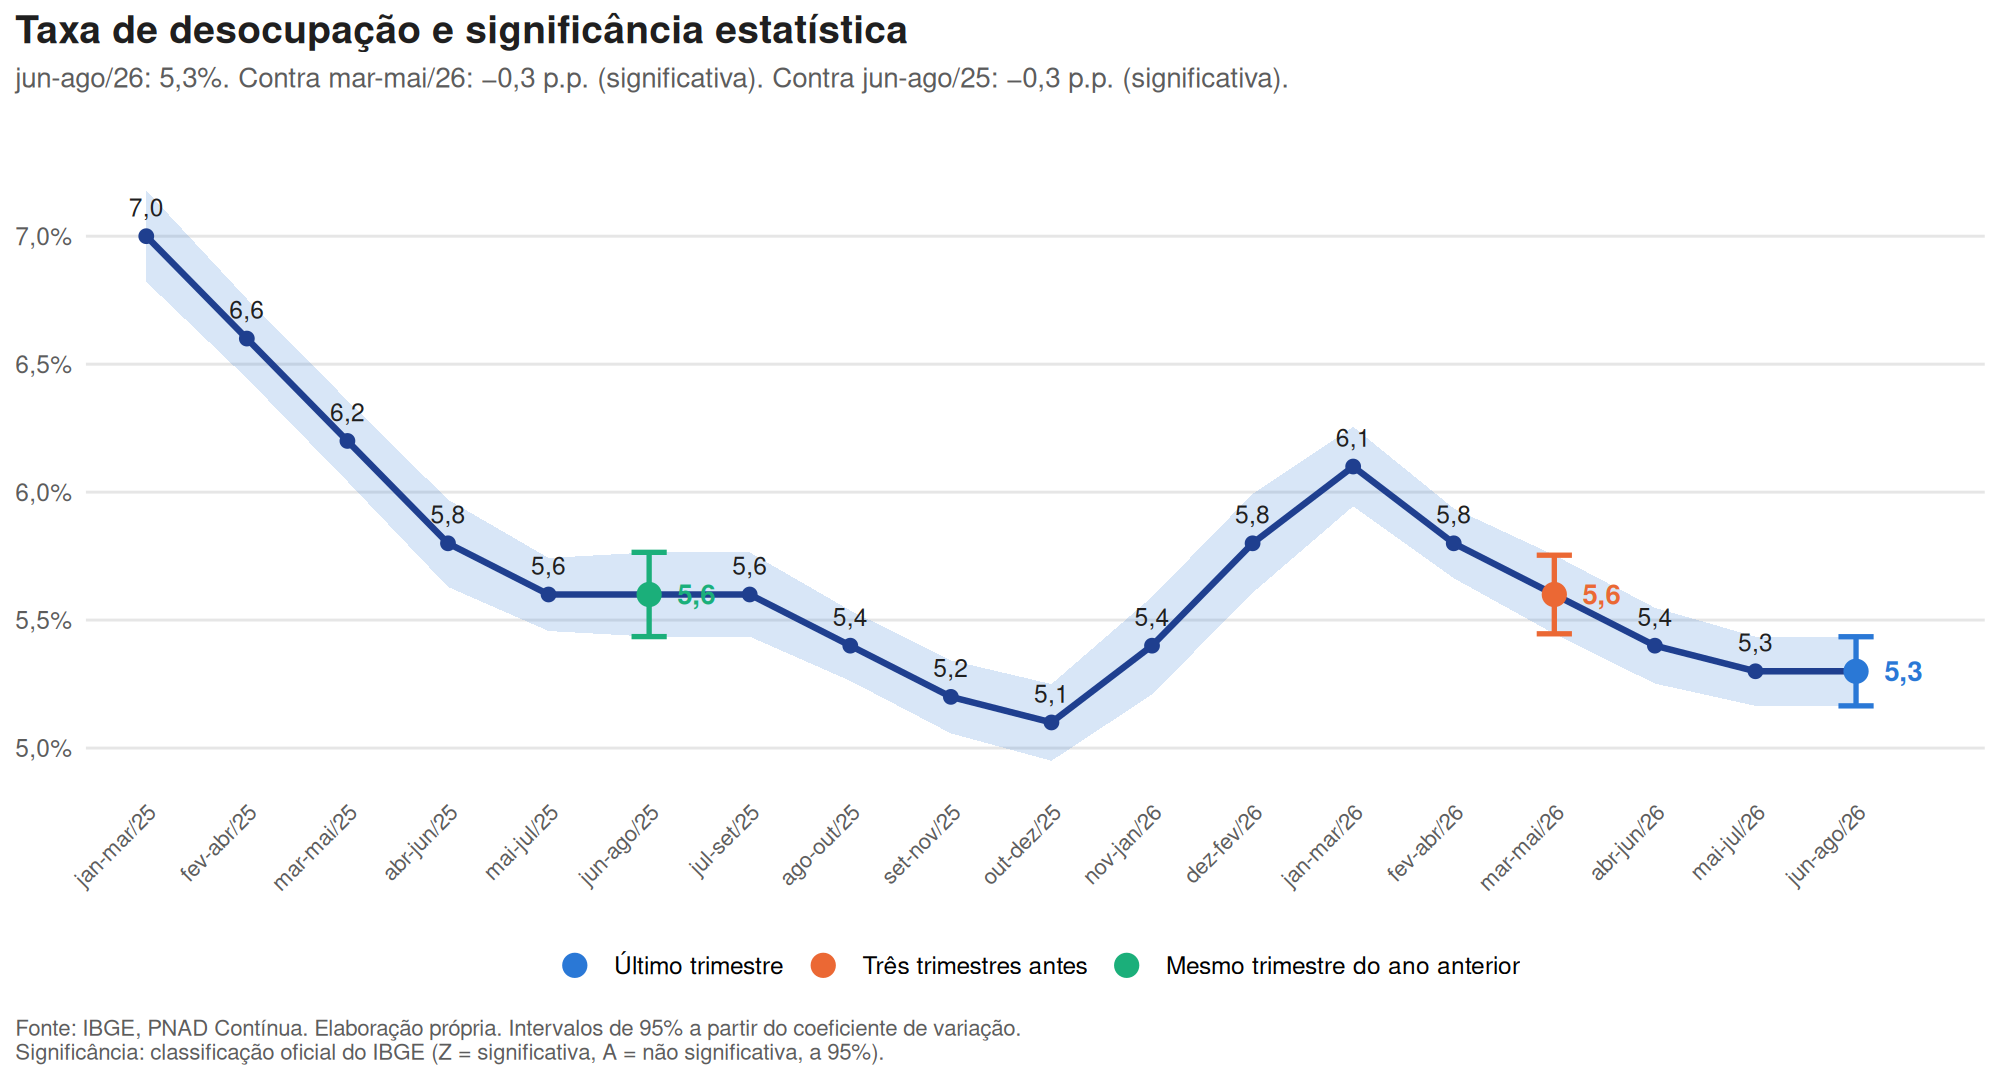
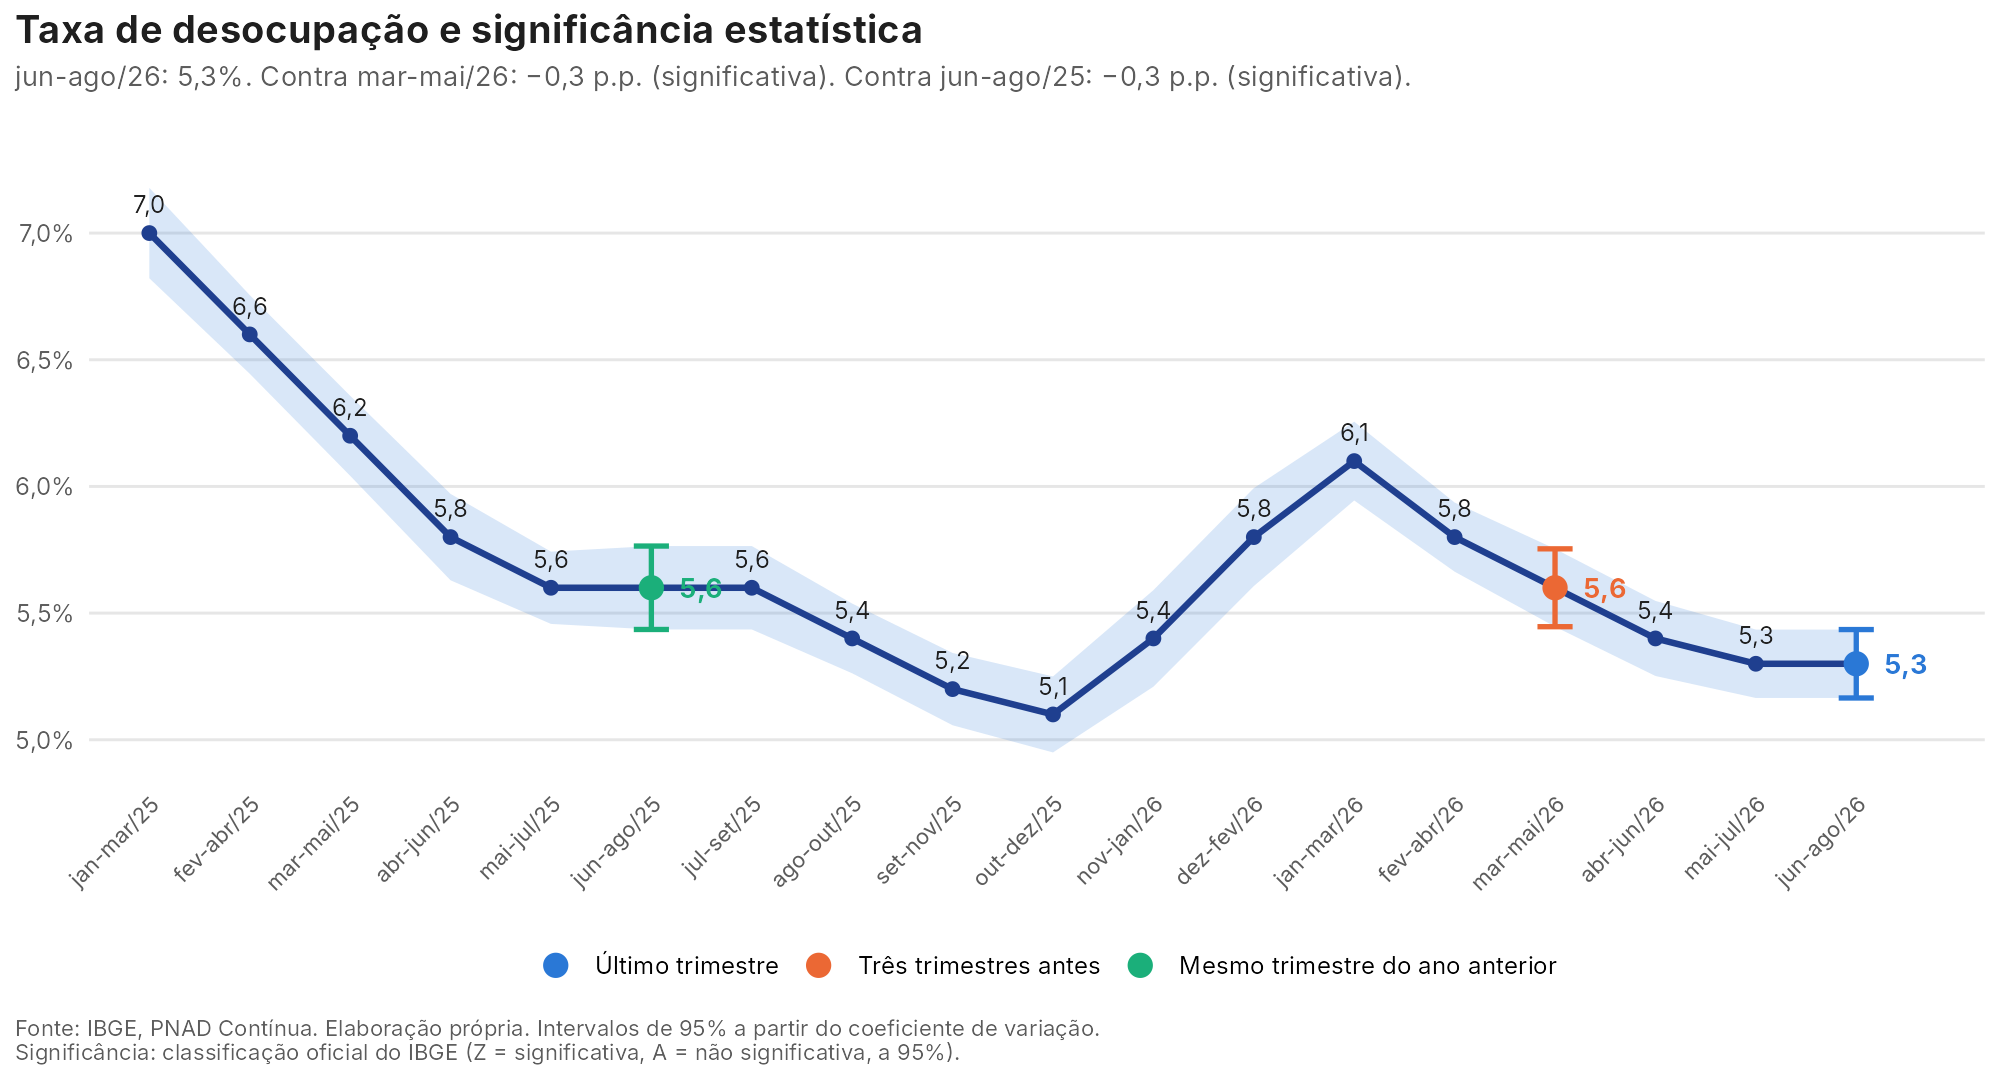
Compara a sobreposição das bandas com a classificação oficial do IBGE

diff --git a/nota/ultima_nota.md b/nota/ultima_nota.md
@@ -24,5 +24,24 @@ Variações em relação a três trimestres antes (períodos sem sobreposição)
 
 ![Taxa de desocupação e significância](../output/figuras/desocupacao_bandas.png)
 
+## Sobreposição das bandas não é teste
+
+Em toda a série, quantas variações classificadas como significativas pelo IBGE teriam passado despercebidas por quem olhasse só a sobreposição dos intervalos:
+
+| Indicador | Comparação | Períodos | Significativas (Z) | Significativas com bandas sobrepostas |
+|---|---|---:|---:|---:|
+| Taxa de desocupação | três trimestres móveis antes | 171 | 147 | 32 (22%) |
+| Taxa de desocupação | um ano antes | 162 | 142 | 12 (8%) |
+| Nível da ocupação | três trimestres móveis antes | 171 | 138 | 50 (36%) |
+| Nível da ocupação | um ano antes | 162 | 118 | 20 (17%) |
+| Rendimento médio real habitual | três trimestres móveis antes | 171 | 70 | 66 (94%) |
+| Rendimento médio real habitual | um ano antes | 162 | 107 | 53 (50%) |
+| Massa de rendimento real habitual | três trimestres móveis antes | 171 | 73 | 67 (92%) |
+| Massa de rendimento real habitual | um ano antes | 162 | 133 | 62 (47%) |
+| Taxa de informalidade | trimestre anterior | 42 | 17 | 14 (82%) |
+| Taxa de informalidade | um ano antes | 39 | 29 | 7 (24%) |
+
+Em nenhum caso bandas separadas coincidiram com variação não significativa: a regra visual é conservadora. Ela não aponta mudança onde não há, mas deixa de ver boa parte das que há. Intervalos calculados a partir das estimativas e dos coeficientes de variação publicados, que são arredondados.
+
 ![Indicadores](../output/figuras/painel.png)
 

diff --git a/README.md b/README.md
@@ -23,6 +23,8 @@ Duas escolhas de método vêm daí:
 - **Comparar períodos sem sobreposição.** Trimestres móveis vizinhos (mar-mai e abr-jun, por exemplo) compartilham dois meses de entrevistas, então a diferença entre eles diz pouco. O monitor compara o último trimestre com o encerrado três meses antes e com o mesmo trimestre do ano anterior, como faz o IBGE.
 - **Testar a diferença, e não só a sobreposição das bandas.** Bandas que não se sobrepõem indicam diferença significativa, mas bandas que se sobrepõem não indicam o contrário. O teste correto usa o intervalo de confiança da *diferença*, que considera a covariância entre as estimativas. Na PNAD Contínua essa covariância é grande, porque 4/5 dos domicílios se repetem de um trimestre para o outro (Lila e Freitas, 2007). As classificações usadas aqui são as oficiais do IBGE: **Z** indica variação significativa a 95%, e **A**, ausência de significância.
 
+**O que os dados mostram.** O monitor compara, em toda a série, a regra visual com a classificação do IBGE. A regra visual nunca aponta mudança onde não há, mas deixa passar muitas das variações significativas. Até jun-ago/26, por exemplo, 22% das variações significativas da taxa de desocupação em relação a três trimestres antes aconteceram com as bandas sobrepostas; no rendimento médio real, 94%. A tabela atualizada está na [nota](nota/ultima_nota.md#sobreposição-das-bandas-não-é-teste).
+
 ## Indicadores
 
 | Indicador | Periodicidade | Tabela do SIDRA |
